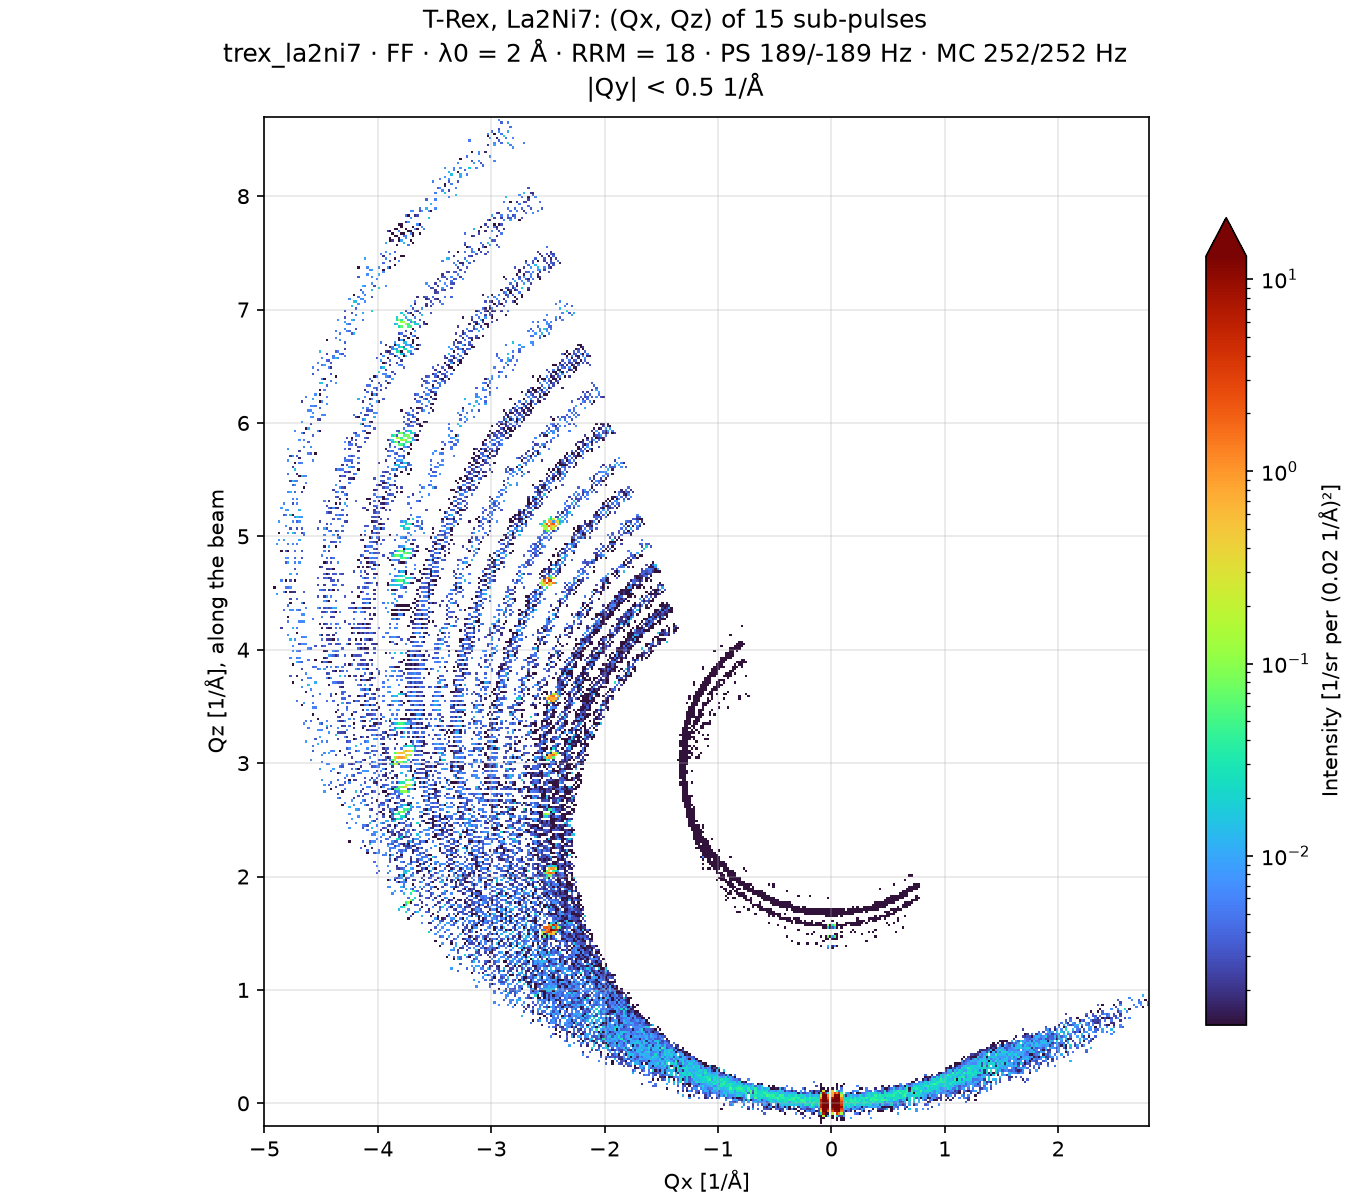
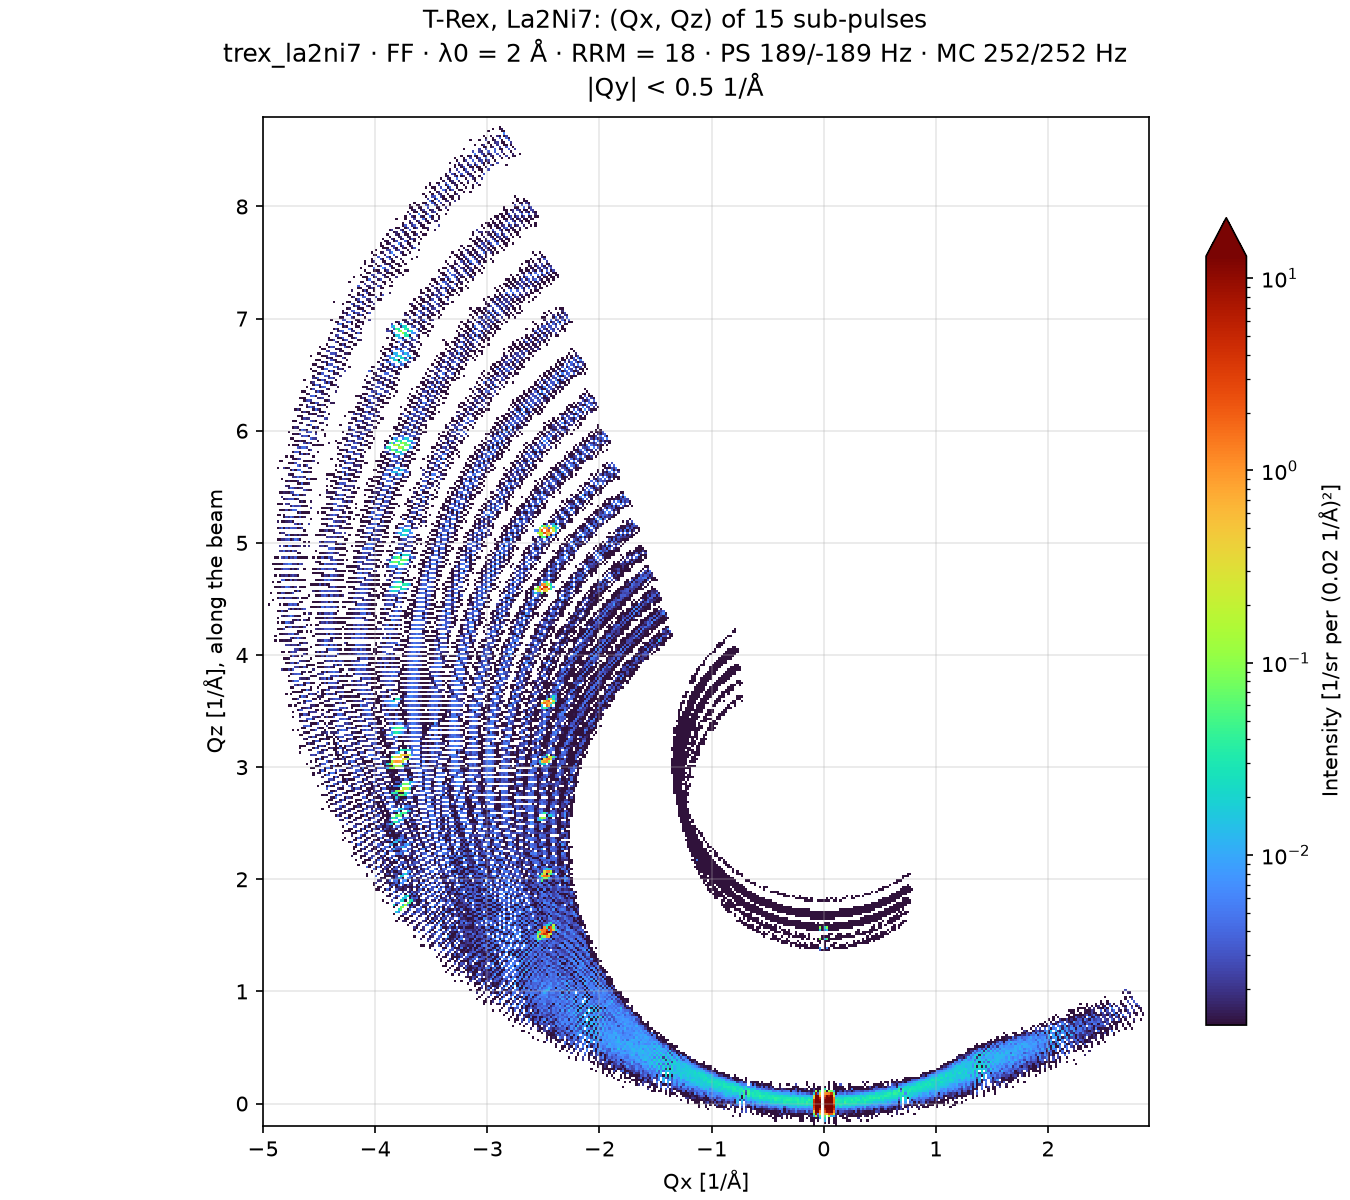
Run trex_10 and trex_11 with 1e9 rays of the masked source
The beam file at the sample has 4,965,069 neutrons, ten times as many
as from 1e8 rays, so the arcs of the elastic plane and the map of the
rotation scan fill in. The pages give the numbers of these runs: the
times, the size of the scan and the table of the sub-pulses.

diff --git a/src/mcdgs/diagnostics/trex_10_elastic_plane.py b/src/mcdgs/diagnostics/trex_10_elastic_plane.py
@@ -523,4 +523,4 @@ def main(out: Path | None = None, ncount: float = 1e9, seed: int = 1) -> Path:
 
 
 if __name__ == "__main__":
-    analyze(out=parse_out(__doc__))  # McStas runs only with main, about ten minutes
+    analyze(out=parse_out(__doc__))  # McStas runs only with main, about two minutes

diff --git a/docs/instruments/trex/elastic-plane.md b/docs/instruments/trex/elastic-plane.md
@@ -29,12 +29,12 @@ The guides and choppers take nearly all the time of a run, and they do not depen
 So `simulate` runs McStas in two parts, with `run_to_sample` and `run_from_sample` of
 [`Simulation`](../../how-to/run-a-simulation.md):
 
-1. **From the source to `sample_pos`**, here with 1e8 rays: under half a minute. Its folder
-   holds the pre-sample and beamstop monitors, which come before `sample_pos` in beam order, and
-   the beam at `sample_pos`, a beam file of 496,089 neutrons. With the masked source nearly
-   every ray reaches the sample: the plain source took 1e10 rays, and about 10 minutes on
-   18 cores, for as many.
-2. **From that beam through the crystal to the detector**: about one second. It can run again,
+1. **From the source to `sample_pos`**, here with 1e9 rays: about a minute and a half on
+   18 cores. Its folder holds the pre-sample and beamstop monitors, which come before
+   `sample_pos` in beam order, and the beam at `sample_pos`, a beam file of 4,965,069 neutrons.
+   With the masked source nearly every ray reaches the sample: 1e10 rays of the plain source
+   took about 10 minutes, for a tenth as many.
+2. **From that beam through the crystal to the detector**: under ten seconds. It can run again,
    with another crystal or orientation, from the same beam.
 
 The second part runs in the frame of `sample_pos`: the sample is the origin, z is the axis of
@@ -99,12 +99,12 @@ the direct beam past the beamstop, and the neutrons the crystal scatters:
 
 | Sub-pulse | λi | Ei | Flux | Direct beam | Scattered |
 | --------- | -- | -- | ---- | ----------- | --------- |
-| 0 | 1.317 Å | 47.16 meV | 8.1e5 n/s | 0 | 0.12 % |
-| 1 | 1.418 Å | 40.70 meV | 2.0e6 n/s | 0 | 0.35 % |
-| 3 | 1.613 Å | 31.46 meV | 2.2e6 n/s | 0.24 % | 0.55 % |
-| 7 | 2.000 Å | 20.45 meV | 1.7e6 n/s | 8.9 % | 0.35 % |
-| 10 | 2.290 Å | 15.59 meV | 1.7e6 n/s | 19.7 % | 0.34 % |
-| 14 | 2.683 Å | 11.37 meV | 4.6e5 n/s | 36.3 % | 0.03 % |
+| 0 | 1.317 Å | 47.17 meV | 8.2e5 n/s | 0 | 0.14 % |
+| 1 | 1.418 Å | 40.71 meV | 2.0e6 n/s | 0 | 0.34 % |
+| 3 | 1.613 Å | 31.46 meV | 2.2e6 n/s | 0.23 % | 0.54 % |
+| 7 | 2.000 Å | 20.45 meV | 1.7e6 n/s | 8.8 % | 0.35 % |
+| 10 | 2.290 Å | 15.59 meV | 1.7e6 n/s | 19.8 % | 0.35 % |
+| 14 | 2.683 Å | 11.36 meV | 4.5e5 n/s | 36.3 % | 0.03 % |
 
 The direct beam past the beamstop grows with the wavelength: the guides pass the long
 wavelengths at larger angles, so their beam spreads more over the 3 m to the beamstop. The
@@ -118,9 +118,9 @@ The figure needs McStas, so it is not made with the site. To run McStas and make
 pixi run python -c "from mcdgs.diagnostics.trex_10_elastic_plane import main; main()"
 ```
 
-At its defaults, `main` runs both parts, 1e9 rays from the masked source with seed 1, about ten
-times the neutrons at the sample of the figure here, from 1e8 rays. It prints the sub-pulses and
-saves the figure next to the `mccode.h5` of the second part, or to the folder given as `out`.
+At its defaults, `main` runs both parts, 1e9 rays from the masked source with seed 1, as for
+the figure here. It prints the sub-pulses and saves the figure next to the `mccode.h5` of the
+second part, or to the folder given as `out`.
 Running the module, as `pixi run docs-diagnostics` does, only reduces the runs again, without
 McStas:
 

diff --git a/docs/instruments/trex/elastic-scan.md b/docs/instruments/trex/elastic-scan.md
@@ -28,9 +28,9 @@ it onto the Ewald spheres of the sub-pulses.
 `simulate` runs only the part from `sample_pos` to the detector, with `scan_from_sample` of
 [`Simulation`](../../how-to/run-a-simulation.md), once per angle and in parallel. Each angle
 starts from the beam file of [Elastic plane](elastic-plane.md#two-runs-split-at-the-sample), the
-496,089 neutrons at `sample_pos` from 1e8 rays of the masked source: the beam before the sample
-does not depend on the crystal. The 31 angles take about 310 MB, in one file with one entry per
-angle.
+4,965,069 neutrons at `sample_pos` from 1e9 rays of the masked source: the beam before the
+sample does not depend on the crystal. The 31 angles take about a minute on 18 cores, and
+about 3.2 GB, in one file with one entry per angle.
 
 ## The reduction
 
